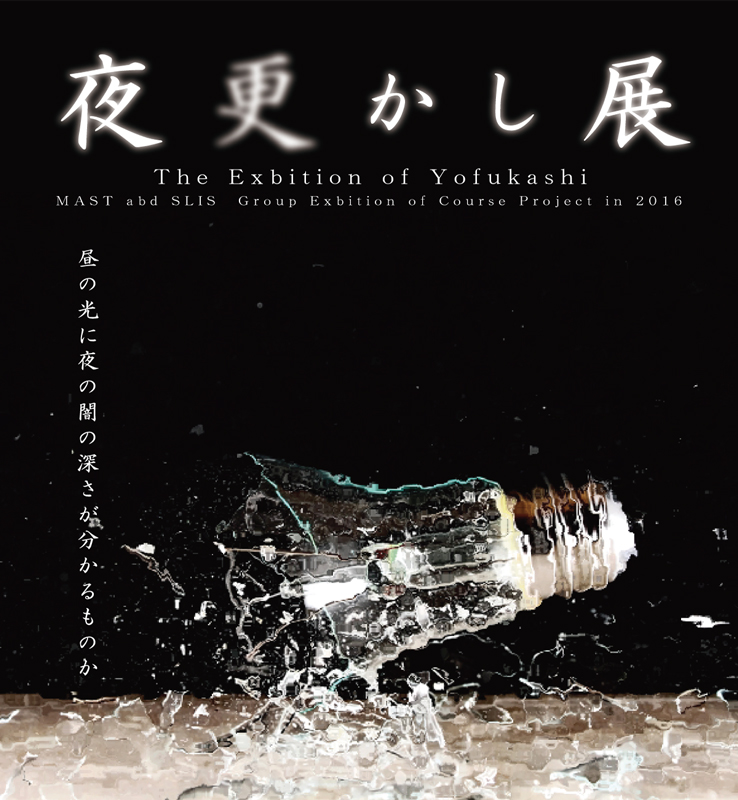
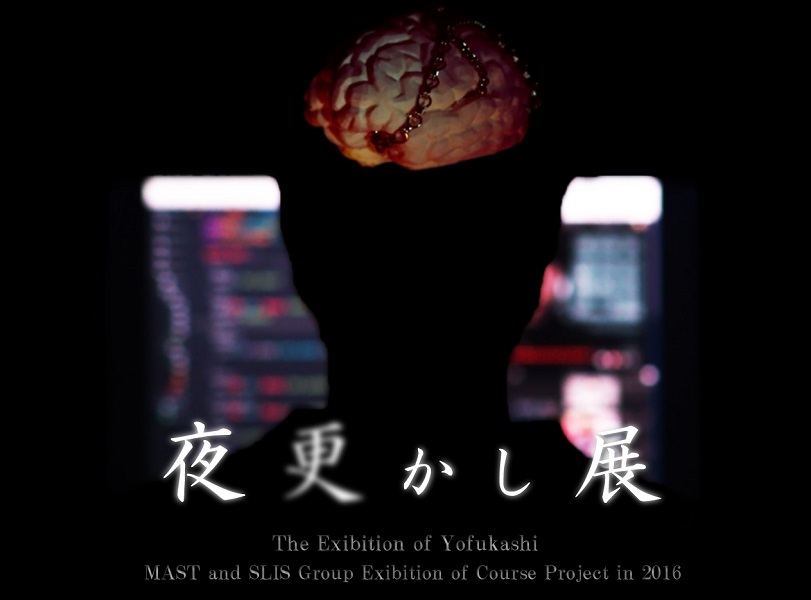
トップ画像と関連cssを修正

diff --git a/docs/css/bundle.css b/docs/css/bundle.css
@@ -26,17 +26,23 @@ p {
 #top {
   width: 100%;
   margin-bottom: 0px;
-  background-color: #ccc;
+  background-color: #000;
+  height: 86vh;
+  padding-top: 15vh;
+  padding-bottom: 19vh;
 }
 @media (max-width: 768px) {
   #top {
     background-color: #000;
+    height: 70vh;
+    padding-top: 15vh;
+    padding-bottom: 19vh;
   }
 }
 .menu {
   background-color: #050608;
-  margin-top: 10px;
-  margin-bottom: 10px;
+  margin-top: 3vh;
+  margin-bottom: 3vh;
 }
 .menu .col-sm-3 {
   border-left: 2px solid #fff;
@@ -47,6 +53,10 @@ p {
   border-right: 2px solid #fff;
 }
 @media (max-width: 768px) {
+  .menu {
+    margin-top: 3vh;
+    margin-bottom: 3vh;
+  }
   .menu .col-sm-3 {
     border-left: none;
     border-right: none;
@@ -56,8 +66,8 @@ p {
     border-right: none;
   }
   .menu .col-xs-6 {
-    margin-top: 2px;
-    margin-bottom: 2px;
+    margin-top: 3vh;
+    margin-bottom: 3vh;
   }
   .menu .col-xs-6:nth-child(odd) {
     border-right: 2px solid #fff;
